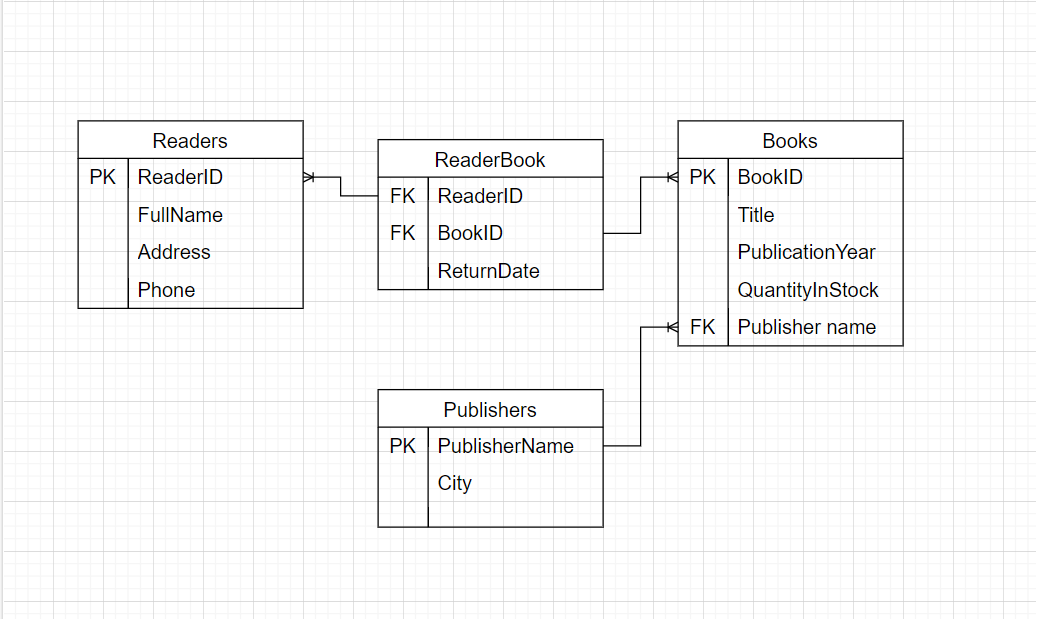
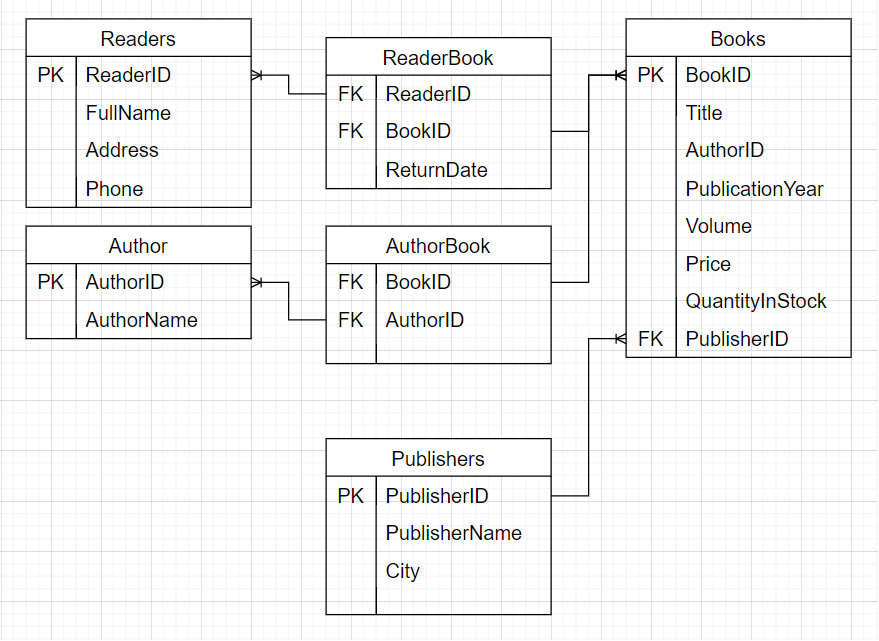
Corrected

diff --git a/README.md b/README.md
@@ -14,39 +14,58 @@
 
 Шифр книги (BookID) - первичный ключ
 Название (Title)
+Шифр автора (AuthorID)
 Год издания (PublicationYear)
+Объём (Volume)
+Цена (Price)
 Количество экземпляров в фонде (QuantityInStock)
-
+Шифр издательства (PublisherID) - внешний ключ 
 
 Издательства (Publishers):
 
-Название (PublisherName) - первичный ключ
+Шифр (PublisherID) - первичный ключ
+Название (PublisherName)
 Город (City)
+
+Авторы (Authors)
+
+Шифр автора (AuthorID)
+ФИО автора (AuthorName)
+
+
 Связи между сущностями:
 
-Один читатель может взять несколько книг из библиотеки, и каждая книга может быть взята несколькими читателями. Таким образом, у нас здесь многие ко многим (many-to-many) отношение. Для этого создадим промежуточную таблицу "Читательский билет - Книга", чтобы отслеживать, какие книги взяты каждым читателем, и какие читатели взяли каждую книгу. Эта таблица будет иметь следующие поля:
+Один читатель может взять несколько книг из библиотеки, и каждая книга может быть взята несколькими читателями. Таким образом, у нас здесь многие ко многим (many-to-many) отношение. Для этого создадим промежуточную таблицу "Читательский билет - Книга" (ReaderBook), чтобы отслеживать, какие книги взяты каждым читателем, и какие читатели взяли каждую книгу. Эта таблица будет иметь следующие поля:
 
 Номер читательского билета (ReaderID) - внешний ключ к таблице "Читатели"
 Шифр книги (BookID) - внешний ключ к таблице "Книги"
 Дата возврата (ReturnDate) - это поле может использоваться для отслеживания, когда книга была возвращена читателем.
+
+Один автор может написать несколько книг, а одна книга может быть написана несколькими авторами. Получается связь многие ко многим (many-to-many). Для связи между ними, сохдадим промежуточную таблицу "Автор - Книга" (AuthorBook), чтобы отслеживать, какие книги написаны каким писателем, и какие писатели написали какую книгу. Эта таблица будет иметь следующие поля:
+Шифр писателя (AuthorID) - внешний ключ к таблице "Авторы"
+Шифр книги (BookID) - внешний ключ к таблице "Книги"
+
 Каждая книга издана определенным издательством, поэтому между таблицами "Книги" и "Издательства" существует связь один ко многим (one-to-many). В таблице "Книги" мы добавим внешний ключ "Издательство", который будет ссылаться на таблицу "Издательства".
 
-Пояснение выбора связей:
 
-Создание таблицы "Читательский билет - Книга" позволяет отслеживать связь между читателями и книгами в случае, когда каждый читатель может взять несколько книг, и каждая книга может быть взята несколькими читателями. Это позволяет эффективно управлять арендой книг и отслеживать даты возврата.
-
-Внешний ключ "Издательство" в таблице "Книги" связывает каждую книгу с конкретным издательством, что упрощает поиск книг, изданных конкретным издательством.
-
+Ключи:
 Первичные ключи:
 
 В каждой таблице определен первичный ключ, который уникально идентифицирует каждую запись в этой таблице:
 Читатели: ReaderID
 Книги: BookID
-Издательства: PublisherName
+Издательства: PublisherID
+Авторы: AuthorID
+
 Внешние ключи:
 
 В таблице "Читательский билет - Книга", есть два внешних ключа:
-
 Номер читательского билета (ReaderID) - ссылается на таблицу "Читатели"
 Шифр книги (BookID) - ссылается на таблицу "Книги"
-В таблице "Книги", есть внешний ключ "Издательство", который ссылается на таблицу "Издательства".
+
+В таблице "Автор - Книга", есть два внешних ключа:
+Шифр автора (AuthorrID) - ссылается на таблицу "Авторы"
+Шифр книги (BookID) - ссылается на таблицу "Книги"
+
+В таблице "Книги", есть внешний ключ "Шифр издательства", который ссылается на таблицу "Издательства".
+
